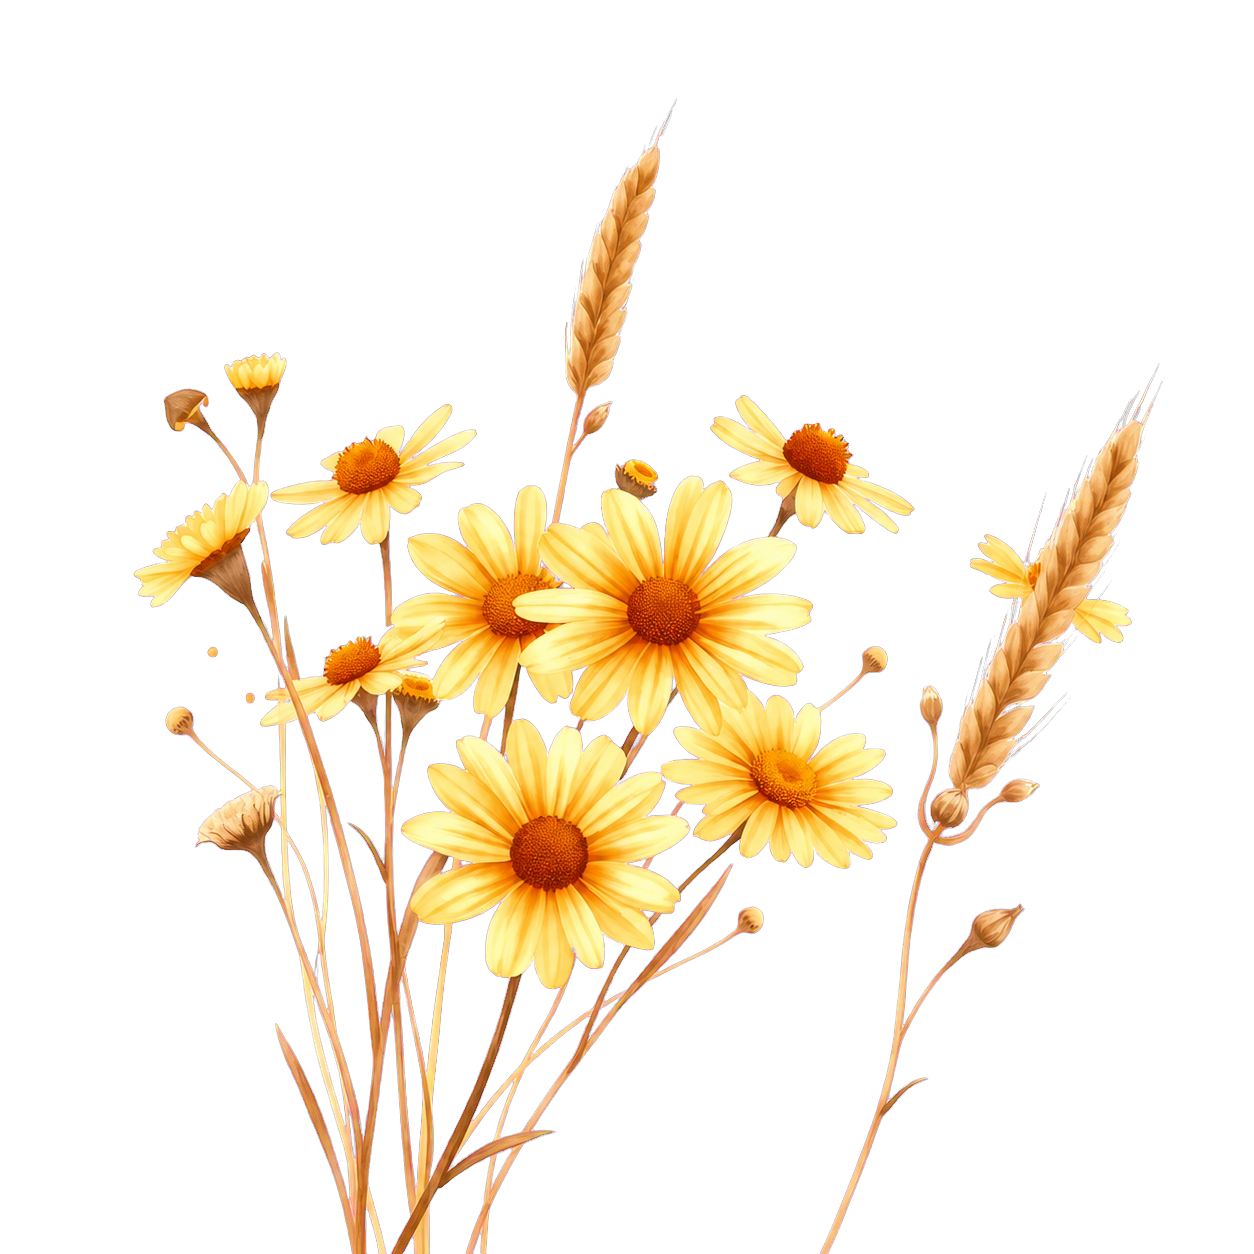
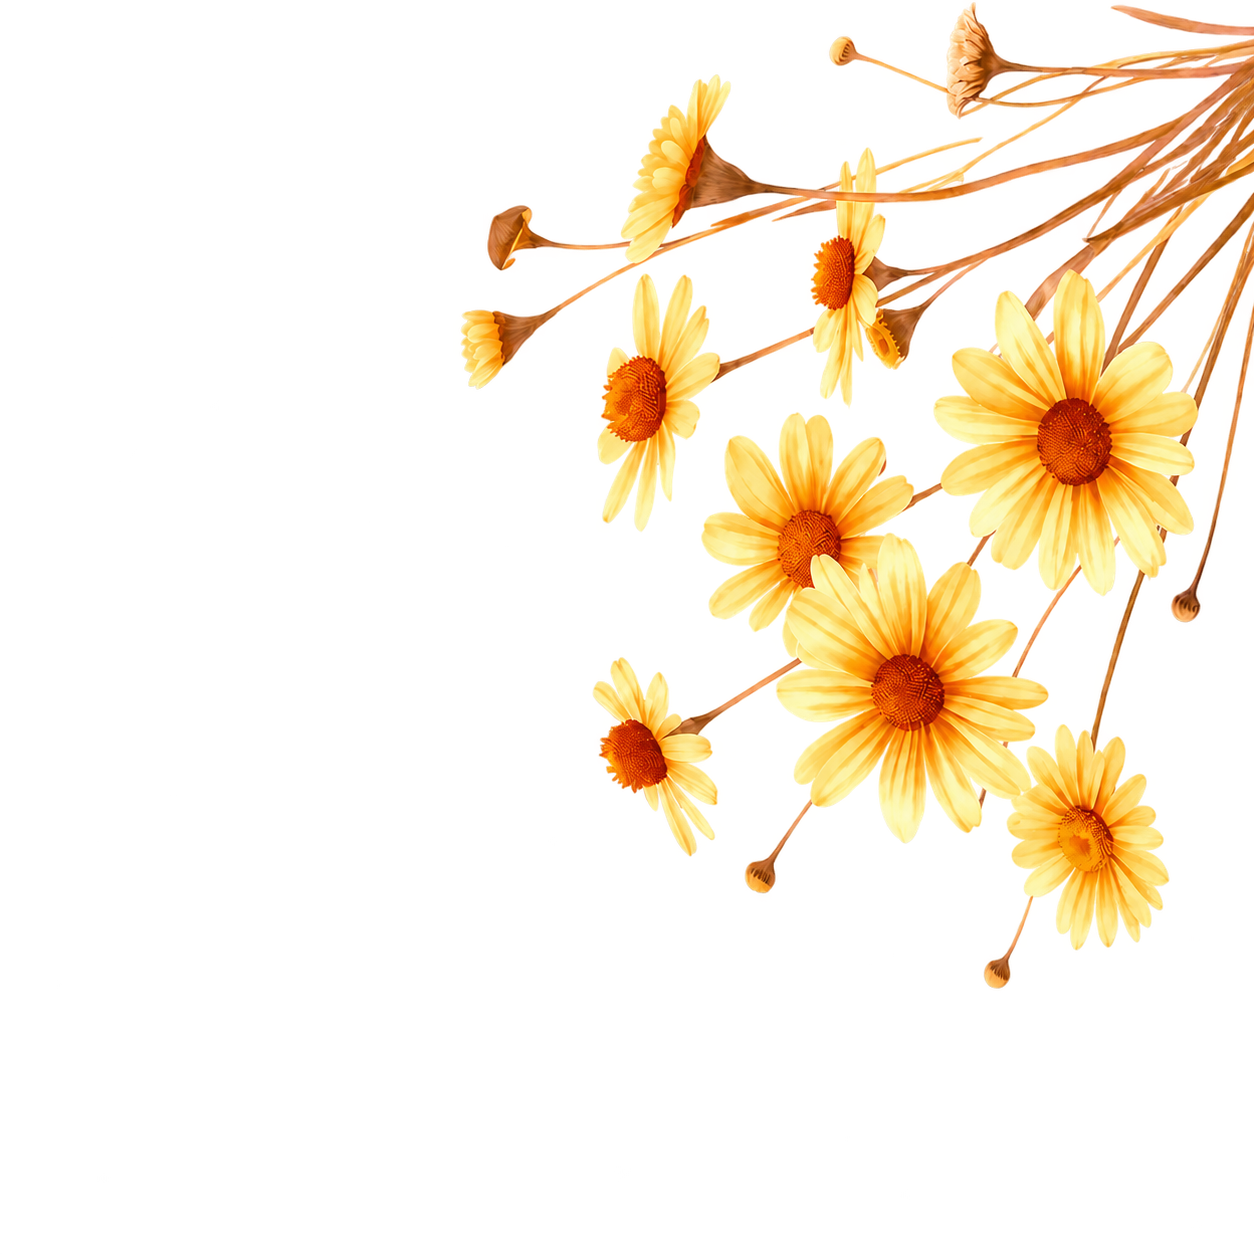
güncellemeler: analiz ayarları, görseller ve bağımlılık sürümleri

diff --git a/lib/views/dashboard/widgets/phase_hero_card.dart b/lib/views/dashboard/widgets/phase_hero_card.dart
@@ -36,7 +36,7 @@ class _PhaseHeroCardState extends State<PhaseHeroCard>
     super.initState();
     _petalController = AnimationController(
       vsync: this,
-      duration: const Duration(seconds: 12),
+      duration: const Duration(seconds: 14),
     );
   }
 
@@ -51,7 +51,7 @@ class _PhaseHeroCardState extends State<PhaseHeroCard>
         ..stop()
         ..value = 0.28;
     } else {
-      _petalController.forward(from: 0);
+      _petalController.repeat();
     }
   }
 
@@ -80,17 +80,42 @@ class _PhaseHeroCardState extends State<PhaseHeroCard>
         child: Stack(
           children: [
             Positioned(
-              right: -54,
-              top: -38,
+              right: 0,
+              top: 0,
               width: 252,
               height: 252,
-              child: Opacity(
-                opacity: 0.92,
-                child: Image.asset(
-                  presentation.assetPath,
-                  fit: BoxFit.cover,
-                  alignment: Alignment.center,
-                  errorBuilder: (_, _, _) => const SizedBox.shrink(),
+              child: IgnorePointer(
+                child: AnimatedBuilder(
+                  animation: _petalController,
+                  builder: (context, child) {
+                    final phase = _petalController.value * math.pi * 6;
+                    final breeze = math.sin(phase);
+                    final softGust = math.sin(phase * 0.5 + 0.7) * 0.32;
+                    final sway = breeze + softGust;
+
+                    return Transform(
+                      alignment: Alignment.topRight,
+                      transform: Matrix4.identity()
+                        ..translateByDouble(
+                          sway * 3.2,
+                          math.cos(phase) * 1.4,
+                          0,
+                          1,
+                        )
+                        ..rotateZ(sway * 0.024)
+                        ..setEntry(0, 1, sway * 0.018),
+                      child: child,
+                    );
+                  },
+                  child: Opacity(
+                    opacity: 0.92,
+                    child: Image.asset(
+                      presentation.assetPath,
+                      fit: BoxFit.contain,
+                      alignment: Alignment.topRight,
+                      errorBuilder: (_, _, _) => const SizedBox.shrink(),
+                    ),
+                  ),
                 ),
               ),
             ),
@@ -102,6 +127,7 @@ class _PhaseHeroCardState extends State<PhaseHeroCard>
                     painter: _PetalPainter(
                       progress: _petalController.value,
                       color: presentation.color,
+                      phase: widget.phase,
                     ),
                   ),
                 ),
@@ -418,8 +444,13 @@ class _PhasePresentation {
 class _PetalPainter extends CustomPainter {
   final double progress;
   final Color color;
+  final CyclePhase phase;
 
-  const _PetalPainter({required this.progress, required this.color});
+  const _PetalPainter({
+    required this.progress,
+    required this.color,
+    required this.phase,
+  });
 
   static const _petals =
       <({double x, double delay, double size, double drift})>[
@@ -432,12 +463,13 @@ class _PetalPainter extends CustomPainter {
         (x: 0.84, delay: 0.55, size: 13, drift: 18),
         (x: 0.12, delay: 0.63, size: 6, drift: 46),
         (x: 0.52, delay: 0.71, size: 7, drift: -40),
+        (x: 0.92, delay: 0.18, size: 8, drift: -28),
+        (x: 0.66, delay: 0.82, size: 6, drift: 35),
+        (x: 0.38, delay: 0.91, size: 9, drift: -24),
       ];
 
   @override
   void paint(Canvas canvas, Size size) {
-    final paint = Paint()..color = color.withValues(alpha: 0.52);
-
     for (var index = 0; index < _petals.length; index++) {
       final petal = _petals[index];
       final t = (progress + petal.delay) % 1;
@@ -449,18 +481,130 @@ class _PetalPainter extends CustomPainter {
       canvas.save();
       canvas.translate(x, y);
       canvas.rotate(angle);
-      final rect = Rect.fromCenter(
-        center: Offset.zero,
-        width: petal.size * 0.58,
-        height: petal.size,
-      );
-      canvas.drawOval(rect, paint);
+      _drawPhaseParticle(canvas, petal.size, index);
       canvas.restore();
     }
   }
 
+  void _drawPhaseParticle(Canvas canvas, double size, int index) {
+    switch (phase) {
+      case CyclePhase.menstrual:
+        _drawTaperedPetal(
+          canvas,
+          size,
+          Color.lerp(color, const Color(0xFFFF7A72), index.isEven ? 0.2 : 0.5)!,
+          widthFactor: 0.72,
+        );
+        break;
+      case CyclePhase.follicular:
+        if (index % 3 == 0) {
+          _drawTinyBlossom(canvas, size * 0.82, const Color(0xFFFFF8E8));
+        } else {
+          _drawLeaf(
+            canvas,
+            size,
+            Color.lerp(color, const Color(0xFFB8D99A), 0.58)!,
+          );
+        }
+        break;
+      case CyclePhase.ovulation:
+        _drawHeartPetal(
+          canvas,
+          size,
+          Color.lerp(
+            color,
+            const Color(0xFFFF8FBD),
+            index.isEven ? 0.35 : 0.62,
+          )!,
+        );
+        break;
+      case CyclePhase.luteal:
+        _drawTaperedPetal(
+          canvas,
+          size * 1.08,
+          Color.lerp(color, const Color(0xFFFFD85A), 0.68)!,
+          widthFactor: 0.38,
+        );
+        break;
+    }
+  }
+
+  void _drawTaperedPetal(
+    Canvas canvas,
+    double size,
+    Color fill, {
+    required double widthFactor,
+  }) {
+    final path = Path()
+      ..moveTo(0, -size * 0.55)
+      ..quadraticBezierTo(size * widthFactor, -size * 0.12, 0, size * 0.55)
+      ..quadraticBezierTo(-size * widthFactor, -size * 0.12, 0, -size * 0.55);
+    canvas.drawPath(path, Paint()..color = fill.withValues(alpha: 0.68));
+  }
+
+  void _drawHeartPetal(Canvas canvas, double size, Color fill) {
+    final path = Path()
+      ..moveTo(0, size * 0.58)
+      ..cubicTo(
+        -size * 0.7,
+        size * 0.12,
+        -size * 0.5,
+        -size * 0.55,
+        0,
+        -size * 0.2,
+      )
+      ..cubicTo(
+        size * 0.5,
+        -size * 0.55,
+        size * 0.7,
+        size * 0.12,
+        0,
+        size * 0.58,
+      );
+    canvas.drawPath(path, Paint()..color = fill.withValues(alpha: 0.66));
+  }
+
+  void _drawLeaf(Canvas canvas, double size, Color fill) {
+    final path = Path()
+      ..moveTo(0, -size * 0.62)
+      ..quadraticBezierTo(size * 0.58, 0, 0, size * 0.62)
+      ..quadraticBezierTo(-size * 0.58, 0, 0, -size * 0.62);
+    canvas.drawPath(path, Paint()..color = fill.withValues(alpha: 0.55));
+    canvas.drawLine(
+      Offset(0, -size * 0.45),
+      Offset(0, size * 0.45),
+      Paint()
+        ..color = color.withValues(alpha: 0.32)
+        ..strokeWidth = 0.7,
+    );
+  }
+
+  void _drawTinyBlossom(Canvas canvas, double size, Color fill) {
+    final paint = Paint()..color = fill.withValues(alpha: 0.72);
+    for (var petal = 0; petal < 5; petal++) {
+      canvas.save();
+      canvas.rotate((math.pi * 2 / 5) * petal);
+      canvas.drawOval(
+        Rect.fromCenter(
+          center: Offset(0, -size * 0.24),
+          width: size * 0.3,
+          height: size * 0.54,
+        ),
+        paint,
+      );
+      canvas.restore();
+    }
+    canvas.drawCircle(
+      Offset.zero,
+      size * 0.1,
+      Paint()..color = const Color(0xFFE7C96B).withValues(alpha: 0.8),
+    );
+  }
+
   @override
   bool shouldRepaint(covariant _PetalPainter oldDelegate) {
-    return oldDelegate.progress != progress || oldDelegate.color != color;
+    return oldDelegate.progress != progress ||
+        oldDelegate.color != color ||
+        oldDelegate.phase != phase;
   }
 }
